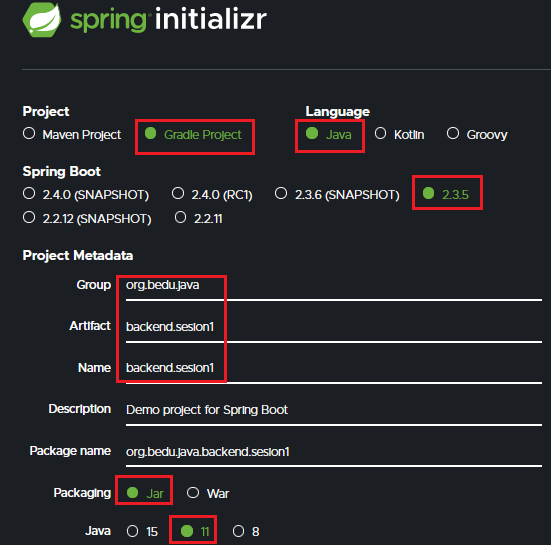
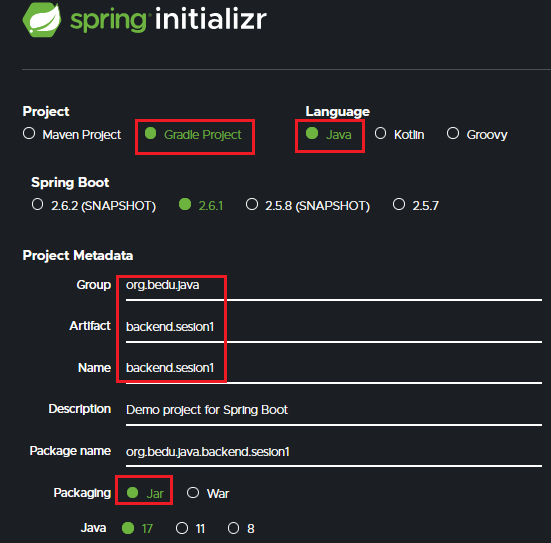
Se corrige el contenido de la sesión 1

diff --git a/Sesion-01/Reto-02/Readme.md b/Sesion-01/Reto-02/Readme.md
@@ -1,17 +1,17 @@
 ## Reto: Creación de Proyecto Maven con Spring Initializr
 
-## Objetivo
+## OBJETIVO
 - Crear un nuevo proyecto Spring Boot, usando Spring Initializr, sin ayuda del instructor.
 - Ejecutar una aplicación desde la línea de comandos, sin necesidad de instalar Maven.
 
-## Requisitos
-- Tener instalado la última versión del **JDK 11** (De Oracle u OpenJDK).
+## REQUISITOS
+- Tener instalado la última versión del **JDK 17 u 11**.
 - Tener acceso a la línea de comandos.
 
-## Desarrollo
+## DESARROLLO
 Crear un proyecto de Spring Boot usando Spring Initializr con las siguientes características:
 - Herramienta de construcción: **Maven**
-- Lenguaje de programación: **Java 11**
+- Lenguaje de programación: **Java 17 u 11**
 - Versión de Spring Boot: la más actual que no sea un `SNAPSHOT` ni un `RC`.
 
 <details>
@@ -20,10 +20,10 @@ Crear un proyecto de Spring Boot usando Spring Initializr con las siguientes car
 1. Entra al sitio de [Spring Initializr](https://start.spring.io/). Comienza llenando la información de la sección del lado izquierdo.
 - Tipo de Proyecto: **Maven** Proyect.
 - Lenguaje: **Java**.
-- Versión de Spring Boot, la versión estable más reciente (al momento de escribir esto la 2.3.5)
+- Versión de Spring Boot, la versión estable más reciente
 - Grupo, artefacto y nombre del proyecto.
 - Forma de empaquetar la aplicación: **jar**.
-- Versión de Java: **11**.
+- Versión de Java: **17** u **11**.
 
 ![imagen](img/img_01.png)
 

diff --git a/Sesion-01/Reto-01/Readme.md b/Sesion-01/Reto-01/Readme.md
@@ -1,17 +1,17 @@
 ## Reto: Creación de Proyecto Gradle con Spring Initializr
 
-## Objetivo
+## OBJETIVO
 - Crear un nuevo proyecto Spring Boot, usando Spring Initializr, sin ayuda del instructor.
 - Ejecutar una aplicación desde la línea de comandos, sin necesidad de instalar Gradle.
 
-## Requisitos
-- Tener instalado la última versión del **JDK 11** (De Oracle u OpenJDK).
+## REQUISITOS
+- Tener instalado la última versión del **JDK 17 u 11**.
 - Tener acceso a la línea de comandos.
 
-## Desarrollo
+## DESARROLLO
 Crear un proyecto de Spring Boot usando Spring Initializr con las siguientes características:
 - Herramienta de construcción: **Gradle**
-- Lenguaje de programación: **Java 11**
+- Lenguaje de programación: **Java 17 u 11**
 - Versión de Spring Boot: la más actual que no sea un `SNAPSHOT` ni un `RC`.
 
 <details>
@@ -20,10 +20,10 @@ Crear un proyecto de Spring Boot usando Spring Initializr con las siguientes car
 1. Entra al sitio de [Spring Initializr](https://start.spring.io/). Comienza llenando la información de la sección del lado izquierdo.
 - **Gradle** Proyect
 - Lenguaje: **Java**.
-- Versión de Spring Boot, la versión estable más reciente (al momento de escribir esto la 2.3.5)
+- Versión de Spring Boot, la versión estable más reciente
 - Grupo, artefacto y nombre del proyecto.
 - Forma de empaquetar la aplicación: **jar**.
- - Versión de Java: **11**.
+ - Versión de Java: **17** u **11**.
 
 ![imagen](img/img_01.png)
 

diff --git a/Sesion-01/Ejemplo-01/Readme.md b/Sesion-01/Ejemplo-01/Readme.md
@@ -1,22 +1,22 @@
 ## Ejemplo: Creación de proyecto Gradle con Spring Initializr
 
-### Objetivo
-- Aprender la forma de crear un proyecto Gradle usando Spring Initializr.
+### OBJETIVO
+- Crear un proyecto Gradle usando Spring Initializr.
 - Compilar, empaquetar y ejecutar la aplicación o proyecto generados desde la línea de comandos.
 - Ejecutar la aplicación desde la línea de comandos.
 
-#### Requisitos
-1. Tener instalado la última versión del JDK 11 (De Oracle u OpenJDK).
+#### REQUISITOS
+1. Tener instalado la última versión del JDK 17 (El JDK 11 también te servirá en esta sesión).
 
-#### Desarrollo
+#### DESARROLLO
 
 1. Entra al sitio de [Spring Initializr](https://start.spring.io/). Ahí verás una sola página dividida en dos secciones. Comienza llenando la información de la sección del lado izquierdo. Selecciona:
   - Gradle Proyect (no te preocupes, no es necesario que tengas Gradle instalado).
   - Lenguaje: **Java**.
-  - Versión de Spring Boot, la versión estable más reciente (al momento de escribir esto la **2.3.5**)
+  - Versión de Spring Boot, la versión estable más reciente
   - Grupo, artefacto y nombre del proyecto.
   - Forma de empaquetar la aplicación: **jar**.
-  - Versión de Java: **11**.
+  - Versión de Java: **17** u **11**.
 
 ![imagen](img/img_01.png)
 

diff --git a/Sesion-01/Ejemplo-03/Readme.md b/Sesion-01/Ejemplo-03/Readme.md
@@ -1,22 +1,22 @@
 ## Ejemplo: Creación de proyecto Maven con Spring Initializr desde IntelliJ Idea
 
-### Objetivo
+### OBJETIVO
 - Aprender la forma de crear un proyecto Maven usando Spring Initializr desde IntelliJ Idea.
 - Compilar, empaquetar y ejecutar la aplicación o proyecto generados desde el IDE.
 - Ejecutar la aplicación.
 
-#### Requisitos
-- Tener instalado la última versión del JDK 11 (De Oracle u OpenJDK).
+#### REQUISITOS
+- Tener instalado la última versión del JDK 17 u 11.
 - Tener instalado la última versión del IDE IntelliJ Idea Community Edition (o el trial de la última edition).
 - Tener una conexión a Internet.
 
-#### Desarrollo
+#### DESARROLLO
 
 1. Abre el IDE IntelliJ Idea. Crea un nuevo proyecto usando el menú `New -> Project`. 
 
 ![imagen](img/img_01.png)
 
-2. En el menú que se abre selecciona la opción `Spring Initializr` y como SDK Java **11** (o superior).
+2. En el menú que se abre selecciona la opción `Spring Initializr` y como SDK Java **11** o superior.
 
 ![imagen](img/img_02.png)
 
@@ -25,7 +25,7 @@
 - Tipo de proyecto: **Maven Proyect**.
 - Lenguaje: **Java**.
 - Forma de empaquetar la aplicación: **jar**.
-- Versión de Java: **11**.
+- Versión de Java: **17** u **11**.
 
 ![imagen](img/img_03.png)
 

diff --git a/Sesion-01/Ejemplo-02/Readme.md b/Sesion-01/Ejemplo-02/Readme.md
@@ -1,15 +1,15 @@
 ## Ejemplo: Creación de proyecto Maven con Spring Initializr
 
-### Objetivo
-- Aprender la forma de crear un proyecto Maven usando Spring Initializr.
+### OBJETIVO
+- Crear un proyecto Maven usando Spring Initializr.
 - Compilar, empaquetar y ejecutar la aplicación o proyecto generados desde la línea de comandos.
 - Ejecutar la aplicación desde la línea de comandos.
 
-#### Requisitos
-1. Tener instalado la última versión del JDK 11 (De Oracle u OpenJDK).
+#### REQUISITOS
+1. Tener instalado la última versión del JDK 17 u 11
 2. Tener una conexión a Internet.
 
-#### Desarrollo
+#### DESARROLLO
 
 1. Entra al sitio de [Spring Initializr](https://start.spring.io/). Ahí verás una sola página dividida en dos secciones. Comienza llenando la información de la sección del lado izquierdo. Selecciona:
   - Tipo de proyecto: **Maven Proyect**.
@@ -17,7 +17,7 @@
   - Versión de Spring Boot, la versión estable más reciente (al momento de escribir esto la **2.3.5**)
   - Grupo, artefacto y nombre del proyecto.
   - Forma de empaquetar la aplicación: **jar**.
-  - Versión de Java: **11**.
+  - Versión de Java:**17** u **11**.
 
 ![imagen](img/img_01.png)
 

diff --git a/Sesion-01/Reto-03/Readme.md b/Sesion-01/Reto-03/Readme.md
@@ -1,18 +1,18 @@
 ## Reto: Creación de Proyecto Maven con Spring Initializr desde IntelliJ Idea
 
-## Objetivo
+## OBJETIVO
 - Crear un nuevo proyecto Spring Boot, usando Spring Initializr desde el IDE IntelliJ Idea, sin ayuda del instructor.
 - Ejecutar una aplicación desde el IDE.
 
-## Requisitos
-- Tener instalado la última versión del **JDK 11** (De Oracle u OpenJDK).
+## REQUISITO
+- Tener instalado la última versión del **JDK 17 u 11**.
 - Tener instalado la última versión del IDE IntelliJ Idea Community Edition (o el trial de la última edition).
 - Tener una conexión a Internet.
 
-## Desarrollo
+## DESARROLLO
 Crear un proyecto de Spring Boot usando Spring Initializr con las siguientes características:
 - Herramienta de construcción: **Maven**
-- Lenguaje de programación: **Java 11**
+- Lenguaje de programación: **Java 17 u 11**
 - Versión de Spring Boot: la más actual que no sea un `SNAPSHOT` ni un `RC`.
 
 <details>
